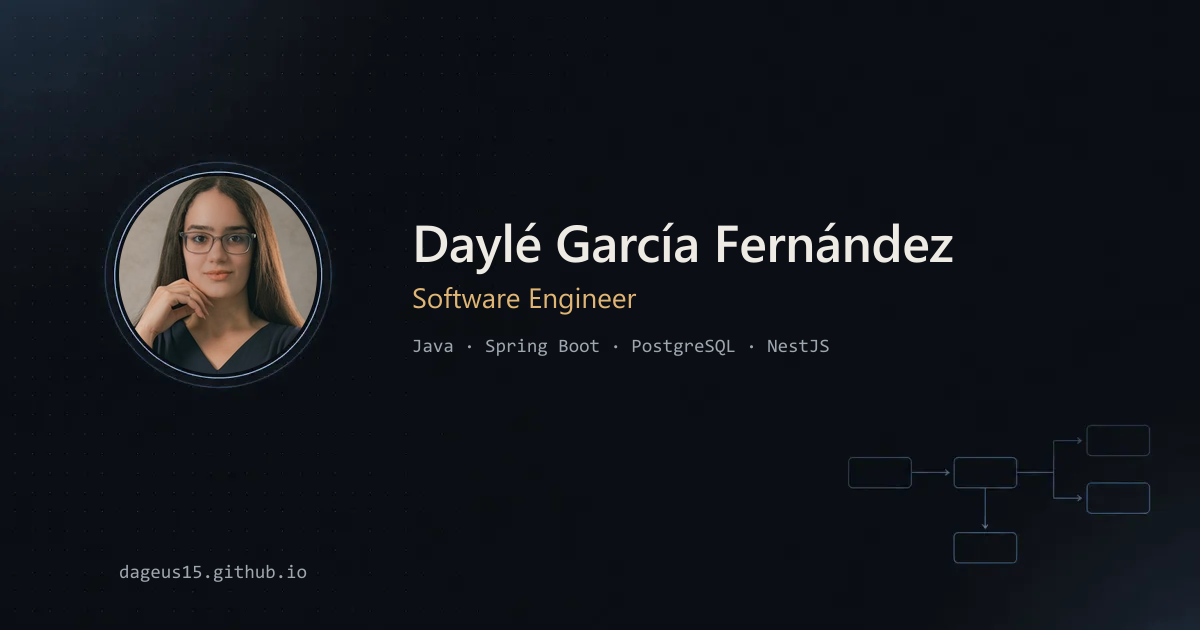
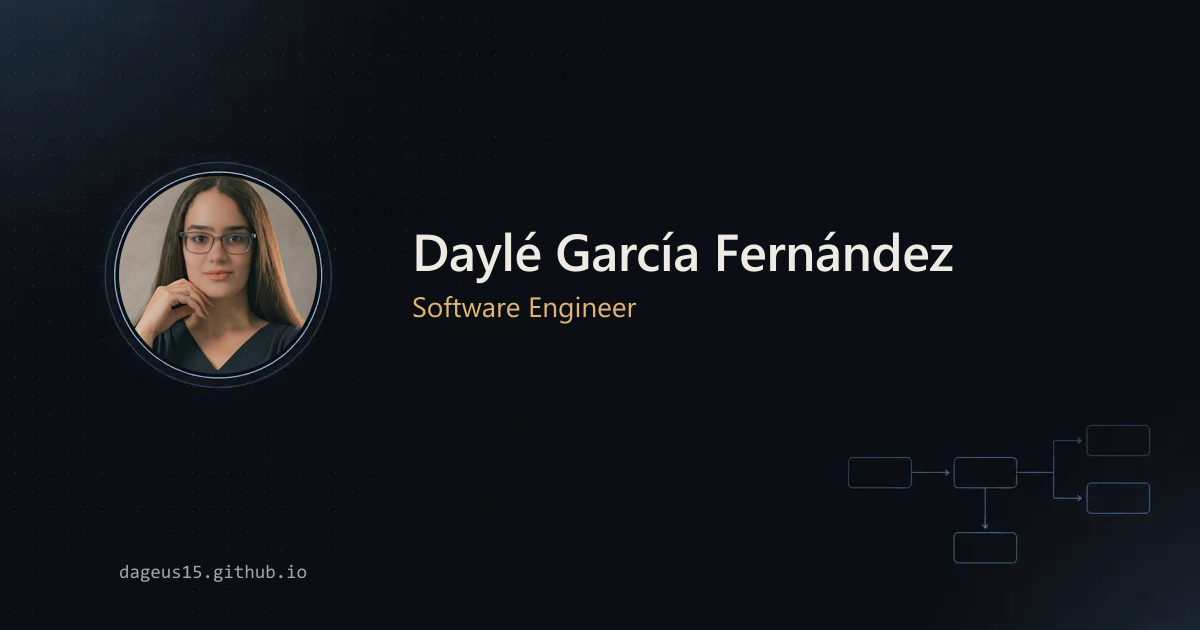
Presenta el portafolio con un saludo personal

Changed region(s): [[0.3392, 0.3619, 0.8017, 0.5127], [0.5242, 0.5429, 0.6783, 0.573], [0.3392, 0.5429, 0.4933, 0.573]]

diff --git a/src/content/copy.js b/src/content/copy.js
@@ -14,9 +14,9 @@ export const copy = {
   /* ────────────────────────────── ESPAÑOL ────────────────────────────── */
   es: {
     meta: {
-      title: "Daylé García Fernández · Desarrollo backend",
+      title: "Daylé García Fernández · Software Engineer",
       description:
-        "Desarrollo backend con Java, Spring Boot y PostgreSQL. Proyectos con NestJS y Next.js.",
+        "Portafolio de Daylé García Fernández. Aplicaciones web y móviles, casos de estudio y notas técnicas.",
     },
 
     ui: {
@@ -157,7 +157,7 @@ export const copy = {
          "Ingeniera de Software" se lee como el título universitario. */
       role: "Software Engineer",
       pitch:
-        "Desarrollo microservicios en Java y Spring Boot, diseño APIs REST y escribo pruebas automatizadas.",
+        "¡Hola! Me encanta crear aplicaciones de todo tipo y ver cómo una idea cobra vida.",
       location: "Ambato, Ecuador",
       /* Señal de la portada. Si dejo de buscar, se borra y desaparece. */
       availability: "Disponible para nuevas oportunidades",
@@ -633,7 +633,7 @@ export const copy = {
     meta: {
       title: "Daylé García Fernández · Software Engineer",
       description:
-        "Backend development with Java, Spring Boot and PostgreSQL. Projects with NestJS and Next.js.",
+        "Daylé García Fernández’s portfolio. Web and mobile apps, case studies, and technical notes.",
     },
 
     ui: {
@@ -768,7 +768,7 @@ export const copy = {
     profile: {
       role: "Software Engineer",
       pitch:
-        "I build microservices with Java and Spring Boot, design REST APIs and write automated tests.",
+        "Hi there! I love building all kinds of apps and seeing ideas come to life.",
       location: "Ambato, Ecuador",
       availability: "Open to new opportunities",
       summary: [
